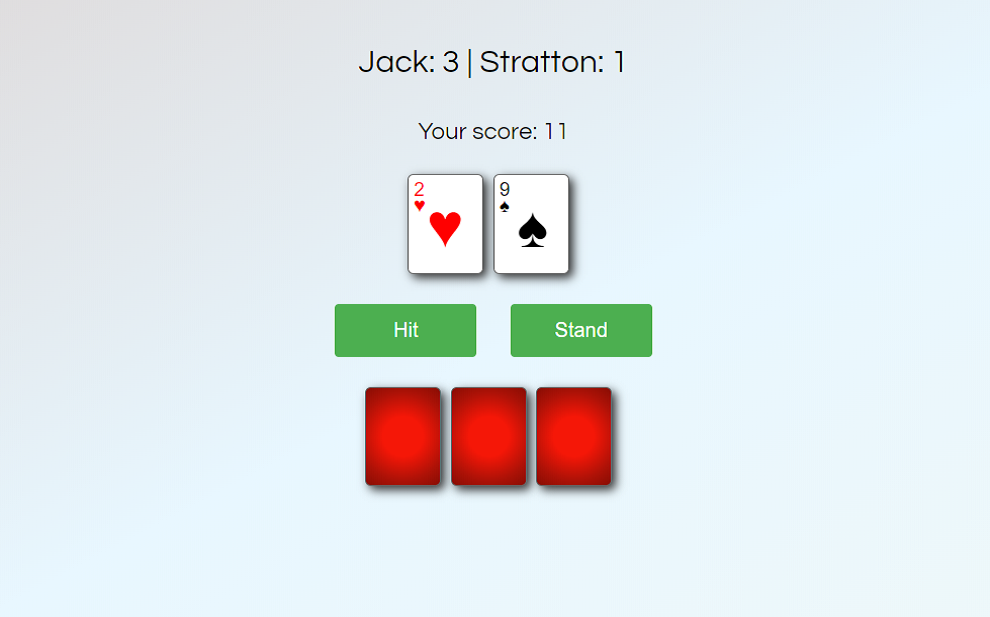
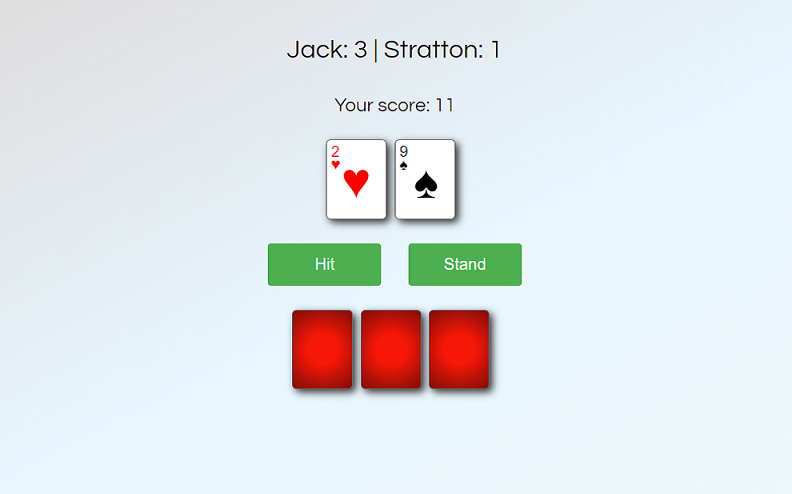
Resized pictures and fixed readme

diff --git a/README.md b/README.md
@@ -1,6 +1,6 @@
 # blackjack.io
 A fun 2-player twist on the classic Blackjack (21) game using Socket.io and Express.js.
-Play against a friend over the internet at (this link)[https://blackjack-baz.herokuapp.com/]!
+Play against a friend over the internet at [this link](https://blackjack-baz.herokuapp.com/)!
 
 ![Mid-round](/pictures/mid-round.png)
 ![Post-round](/pictures/post-round.png)
